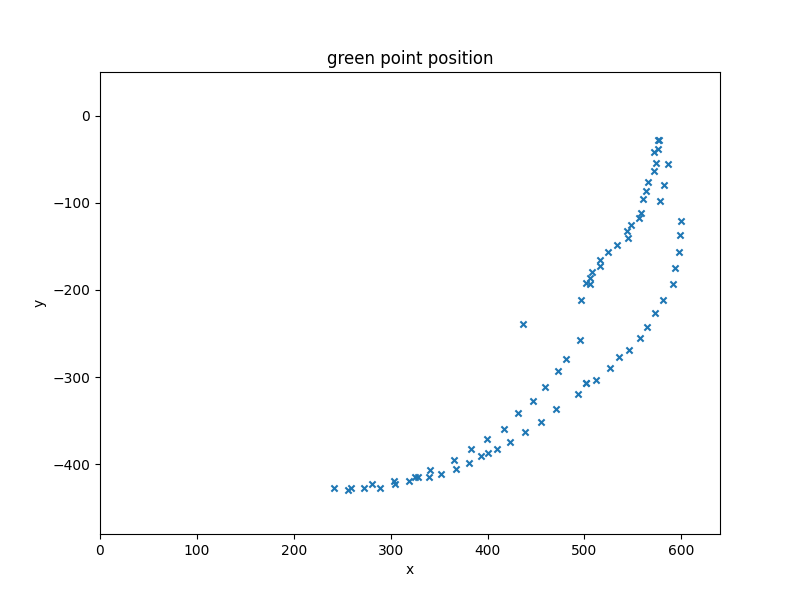
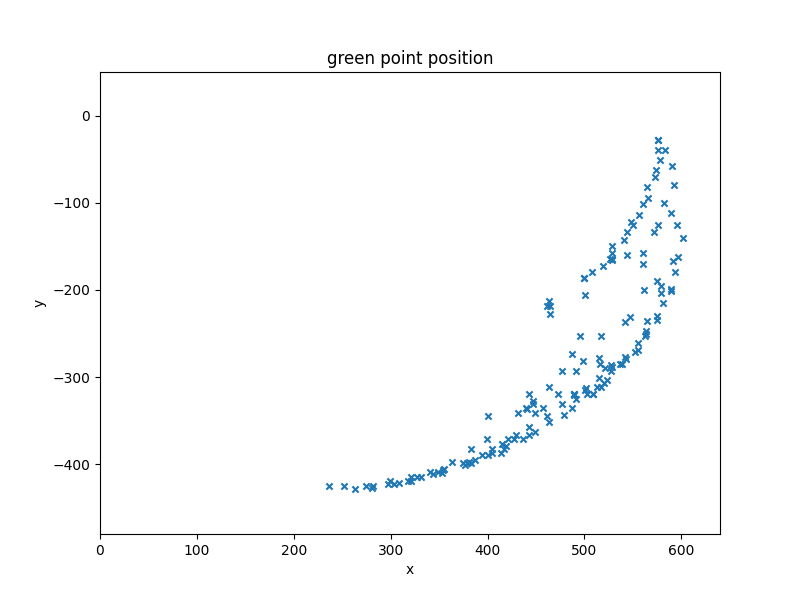
jeudi1

diff --git a/project_RL/capturetarget.py b/project_RL/capturetarget.py
@@ -66,18 +66,25 @@ actions_liste = [[0, 0], [0, 10], [0, 20], [0, 30], [0, 40], [0, 50], [0, 60], [
             [80, 10], [70, 80], [60, 40], [50, 60], [40, 80], [30, 40], [20, 70], [10, 40], [0, 100]]
 
 
+def random_target():
+    value = np.random.randint(0, 19)
+    return value
+
+
 speed = 60
 ser = serial.Serial('/dev/ttyACM0')
 
 cap = cv2.VideoCapture(0)
-for actions in actions_liste:
-
-    servo_0_target = actions[0]
-    servo_1_target = actions[1]
+# for actions in actions_liste:
+for i in range(100):
+    servo_0_target = random_target()*10
+    servo_1_target = random_target()*10
+    # servo_0_target = actions[0]
+    # servo_1_target = actions[1]
 
     print(f'\r {servo_0_target:.2f} {servo_1_target:.2f}', end='')
     ser.write(f'{int(servo_0_target) << 1}\n{(int(servo_1_target) << 1) + 1}\n'.encode())
-    sleep(1)
+    sleep(2)
     ret, frame = cap.read()
     frame = cv2.resize(frame, None, fx=1, fy=1, interpolation=cv2.INTER_AREA)
     # cv2.imshow('frame', frame)

diff --git a/project_RL/DQN_test.py b/project_RL/DQN_test.py
@@ -30,7 +30,7 @@ target_pos_list_random = random.sample(target_pos_list, len(target_pos_list))
 
 model = DQNet()
 envir = environment()
-model.load_weights("/home/mig5/Desktop/TR_DATA_RL/project_RL/predict_model_jeudi")
+model.load_weights("/home/mig5/Desktop/TR_DATA_RL/project_RL/predict_model_friday")
 
 mask = mask_detect()
 s_c = top_detect(mask)

diff --git a/project_RL/randomdatacollect.py b/project_RL/randomdatacollect.py
@@ -192,7 +192,6 @@ if __name__ == '__main__':
     plt.scatter(Servo_t[0], Servo_t[1], s = 20, marker = 'x')
     plt.show()
 
-    with open('./data.npy', 'wb') as f:
-        np.save(f, Servo_t)
-        np.save(f, A_t)
+    with open('./s_t.npy', 'wb') as f:
         np.save(f, s_t)
+    print(s_t)

diff --git a/project_RL/DQN_singletest.py b/project_RL/DQN_singletest.py
@@ -31,7 +31,7 @@ reset_pos()
 
 model = DQNet()
 envir = environment()
-model.load_weights("/home/mig5/Desktop/TR_DATA_RL/project_RL/predict_model_jeudi")
+model.load_weights("/home/mig5/Desktop/TR_DATA_RL/project_RL/predict_model_friday")
 
 mask = mask_detect()
 s_c = top_detect(mask)
